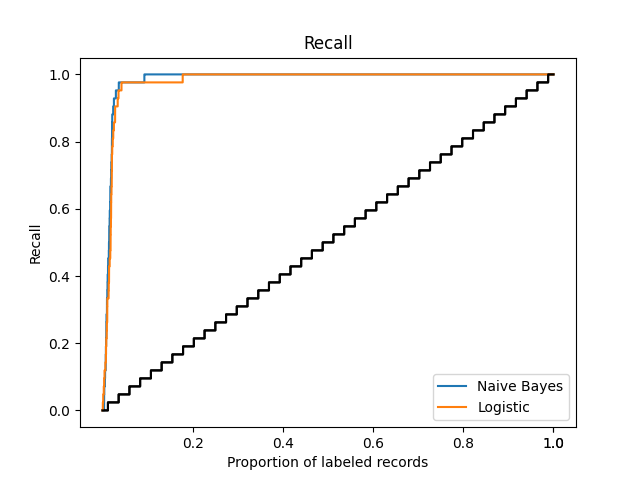
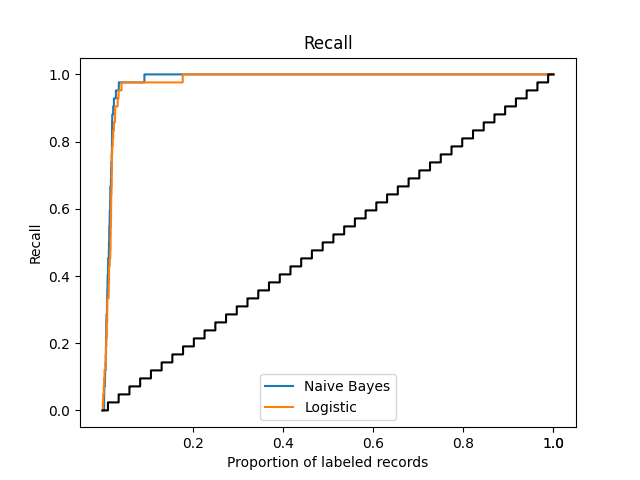
Update README
Update the readme with on the topic of multiple curves in one plot. Also added
legend_kwargs as a parameter to the plot functions.

diff --git a/asreviewcontrib/insights/plot.py b/asreviewcontrib/insights/plot.py
@@ -13,7 +13,8 @@ def plot_recall(ax,
                 y_absolute=False,
                 show_random=True,
                 show_legend=True,
-                legend_values=None):
+                legend_values=None,
+                legend_kwargs={}):
     """Plot the recall@T for all thresholds T.
 
     Arguments
@@ -36,7 +37,10 @@ def plot_recall(ax,
     legend_values: list[str]
         List of values to show in the legend if state_obj contains multiple
         states and show_legend=True.
-
+    legend_kwargs: dict
+        Dictionary of keyword arguments that are passed to the legend. See
+        https://matplotlib.org/stable/api/_as_gen/matplotlib.pyplot.legend.html
+        for the options.
     Returns
     -------
     matplotlib.axes.Axes
@@ -55,7 +59,8 @@ def plot_recall(ax,
                         y_absolute=y_absolute,
                         show_random=show_random,
                         show_legend=show_legend,
-                        legend_values=legend_values)
+                        legend_values=legend_values,
+                        legend_kwargs=legend_kwargs)
 
 
 def plot_wss(ax,
@@ -64,7 +69,8 @@ def plot_wss(ax,
              x_absolute=False,
              y_absolute=False,
              show_legend=True,
-             legend_values=None):
+             legend_values=None,
+             legend_kwargs={}):
     """Plot the WSS@T for all thresholds T.
 
     Arguments
@@ -85,6 +91,10 @@ def plot_wss(ax,
     legend_values: list[str]
         List of values to show in the legend if state_obj contains multiple
         states and show_legend=True.
+    legend_kwargs: dict
+        Dictionary of keyword arguments that are passed to the legend. See
+        https://matplotlib.org/stable/api/_as_gen/matplotlib.pyplot.legend.html
+        for the options.
 
     Returns
     -------
@@ -129,7 +139,8 @@ def plot_wss(ax,
                      x_absolute=x_absolute,
                      y_absolute=y_absolute,
                      show_legend=show_legend,
-                     legend_values=legend_values)
+                     legend_values=legend_values,
+                     legend_kwargs=legend_kwargs)
 
 
 def plot_erf(ax,
@@ -138,7 +149,8 @@ def plot_erf(ax,
              x_absolute=False,
              y_absolute=False,
              show_legend=True,
-             legend_values=None):
+             legend_values=None,
+             legend_kwargs={}):
     """Plot the ERF@T for all thresholds T.
 
     Arguments
@@ -159,6 +171,10 @@ def plot_erf(ax,
     legend_values: list[str]
         List of values to show in the legend if state_obj contains multiple
         states and show_legend=True.
+    legend_kwargs: dict
+        Dictionary of keyword arguments that are passed to the legend. See
+        https://matplotlib.org/stable/api/_as_gen/matplotlib.pyplot.legend.html
+        for the options.
 
     Returns
     -------
@@ -198,7 +214,8 @@ def plot_erf(ax,
                      x_absolute=x_absolute,
                      y_absolute=y_absolute,
                      show_legend=show_legend,
-                     legend_values=legend_values)
+                     legend_values=legend_values,
+                     legend_kwargs=legend_kwargs)
 
 
 # Plotting using labels.

diff --git a/README.md b/README.md
@@ -215,8 +215,16 @@ related to the steep recall curve.
 Optional arguments for the command line are `--priors` to include prior
 knowledge, `--x_absolute` and `--y_absolute` to use absolute axes.
 
-See `asreview plot -h` for all command line arguments.
+See `asreview plot -h` for all command line arguments. 
 
+### Plotting multiple files
+It is possible to show the curves of multiple files in one plot. Use this 
+syntax (replace `YOUR_ASREVIEW_FILE_1` and `YOUR_ASREVIEW_FILE_2` by the 
+asreview_files that you want to include in the plot):
+
+```bash
+asreview plot recall YOUR_ASREVIEW_FILE_1.asreview YOUR_ASREVIEW_FILE_2.asreview
+```
 
 ### Plotting API
 
@@ -310,10 +318,9 @@ with open_state("example.asreview") as s:
 ![Recall with absolute axes](https://github.com/asreview/asreview-insights/blob/master/docs/example_absolute_axes.png)
 
 
-#### Example: Multiple curves in one plot
+#### Example: Legend for multiple curves in one plot
 
-It is possible to have multiple curves in one plot by using the API,
-and add a legend.
+If you have multiple curves in one plot, you can customize the legend:
 
 ```python
 import matplotlib.pyplot as plt
@@ -325,17 +332,15 @@ from asreviewcontrib.insights.plot import plot_recall
 fig, ax = plt.subplots()
 
 with open_state("tests/asreview_files/sim_van_de_schoot_2017_1.asreview") as s1:
-    plot_recall(ax, s1)
-
-with open_state("tests/asreview_files/"
-                "sim_van_de_schoot_2017_logistic.asreview") as s2:
-    plot_recall(ax, s2)
-
-ax.lines[0].set_label("Naive Bayes")
-ax.lines[2].set_label("Logistic")
-ax.legend()
+    with open_state("tests/asreview_files/"
+                    "sim_van_de_schoot_2017_logistic.asreview") as s2:
+        plot_recall(ax,
+                    [s1, s2],
+                    legend_values=["Naive Bayes", "Logistic"],
+                    legend_kwargs={'loc': 'lower center'})
 
 fig.savefig("docs/example_multiple_lines.png")
+
 ```
 ![Recall with multiple lines](https://github.com/asreview/asreview-insights/blob/master/docs/example_multiple_lines.png)
 
